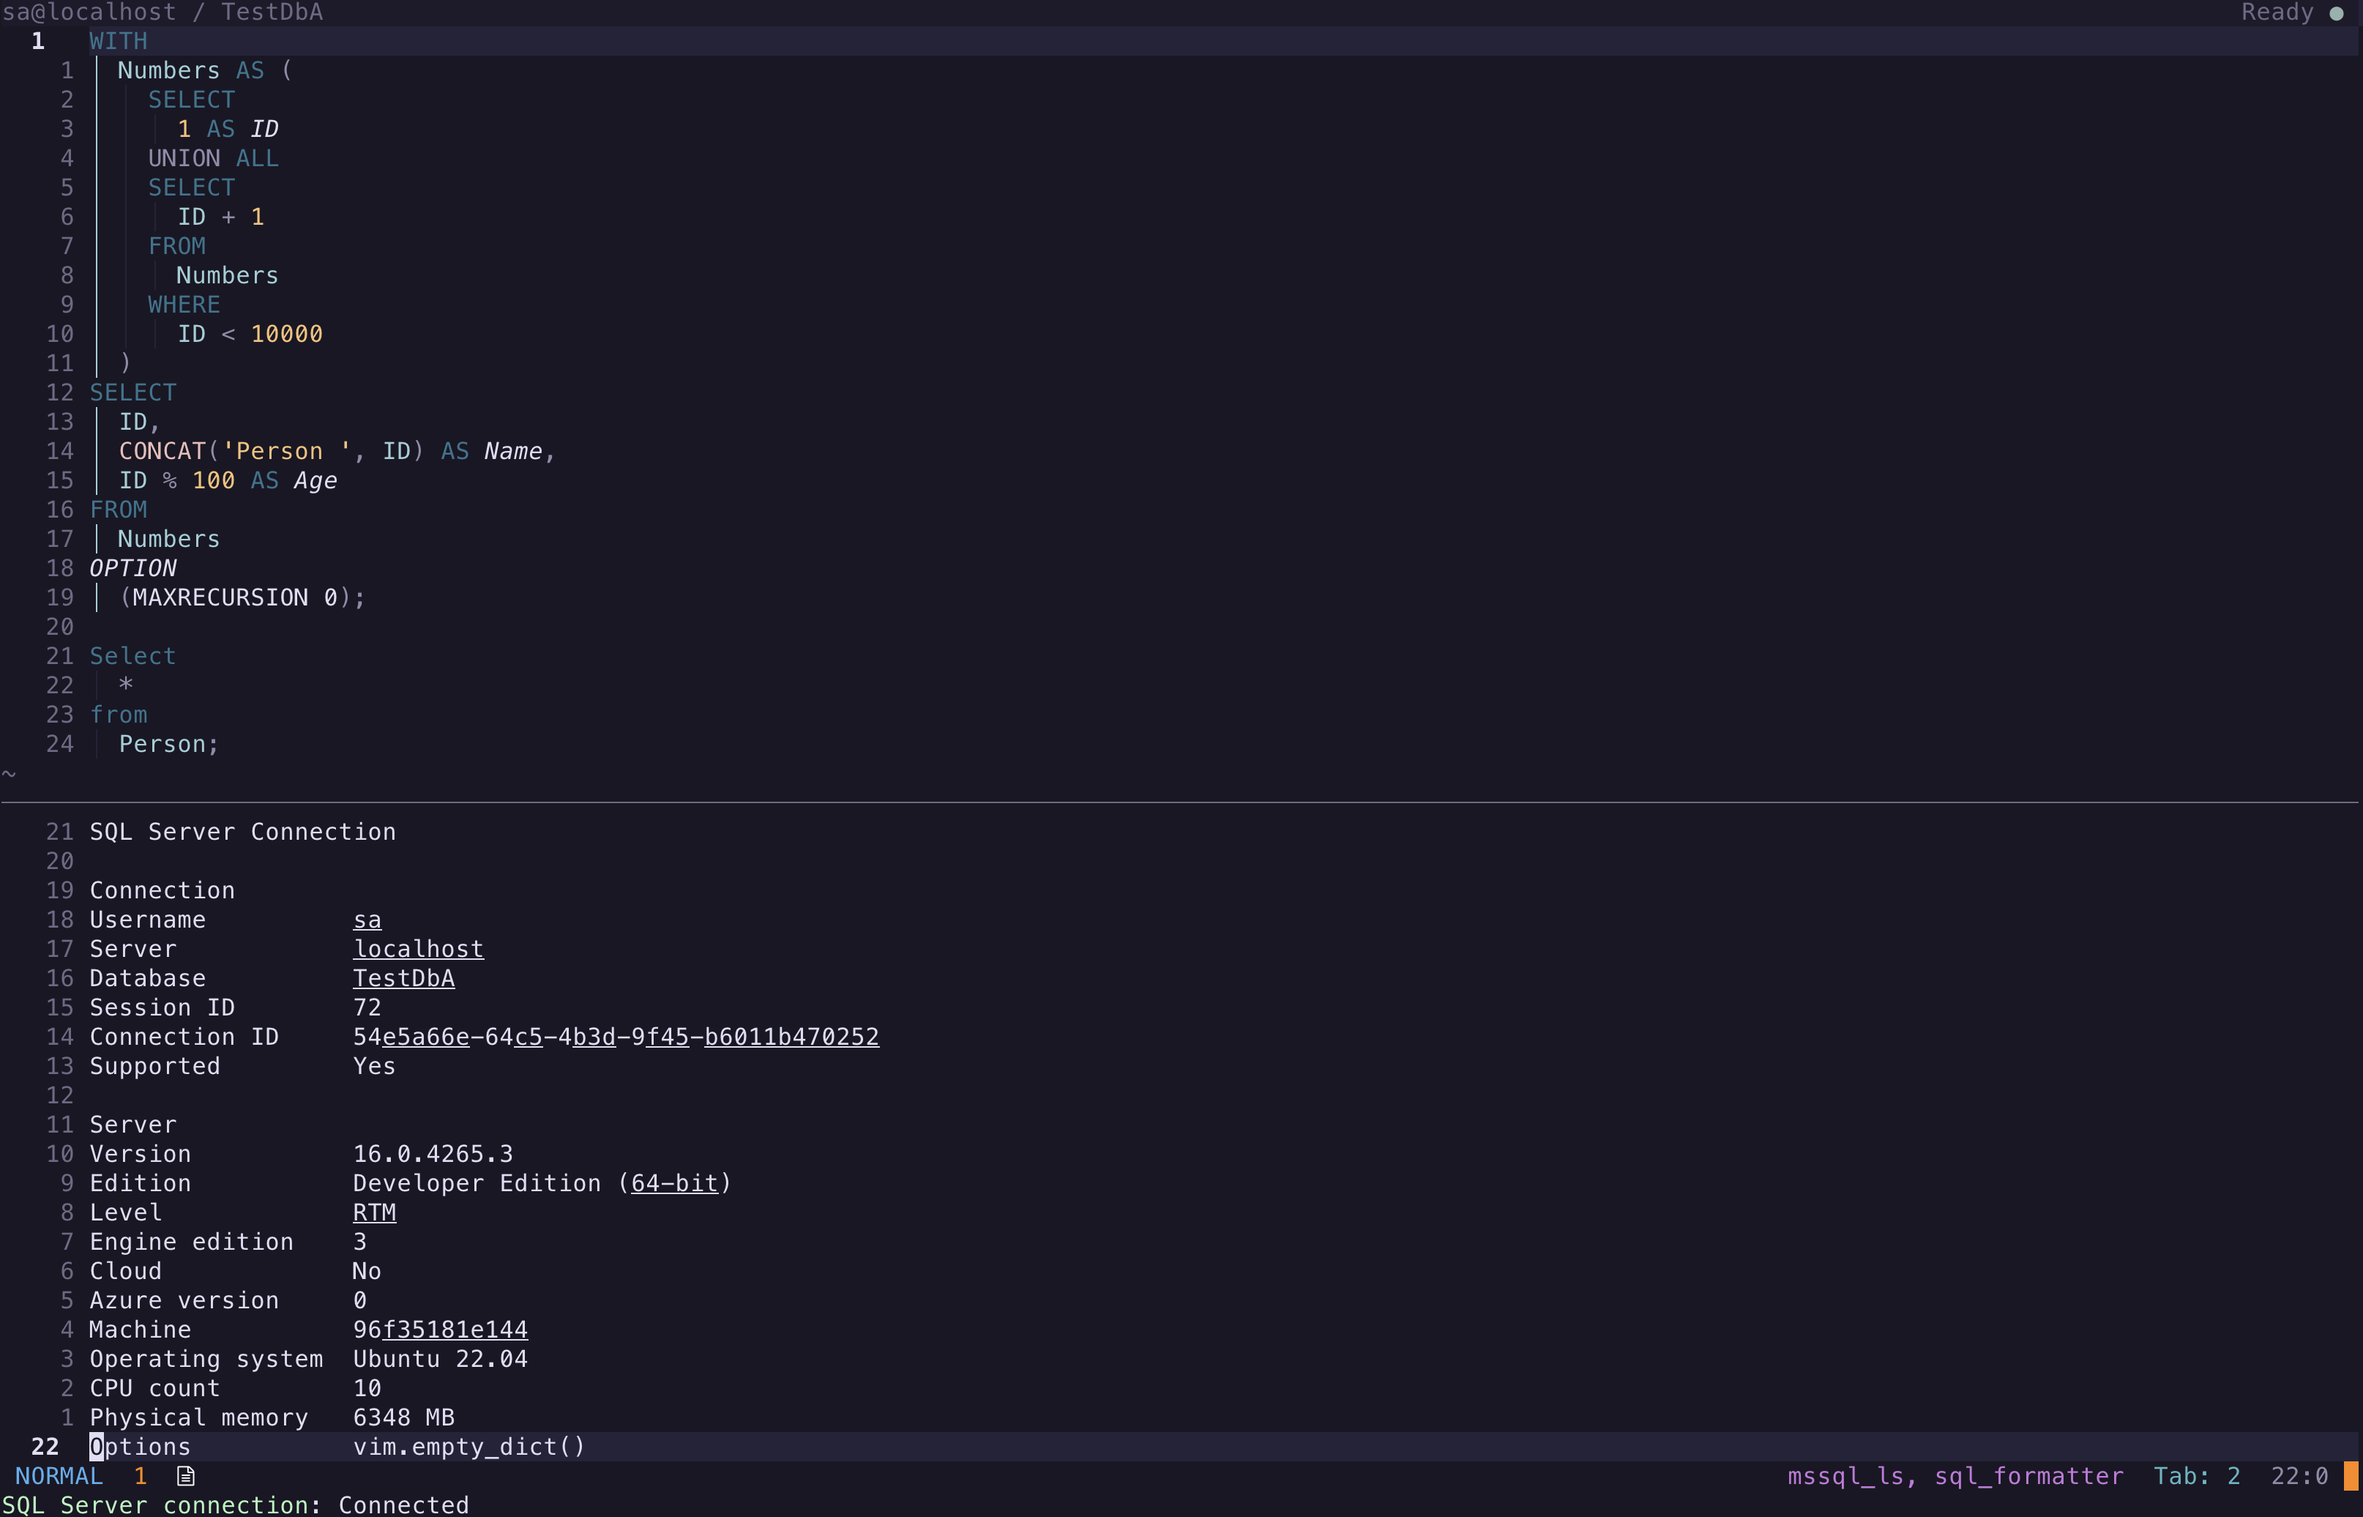
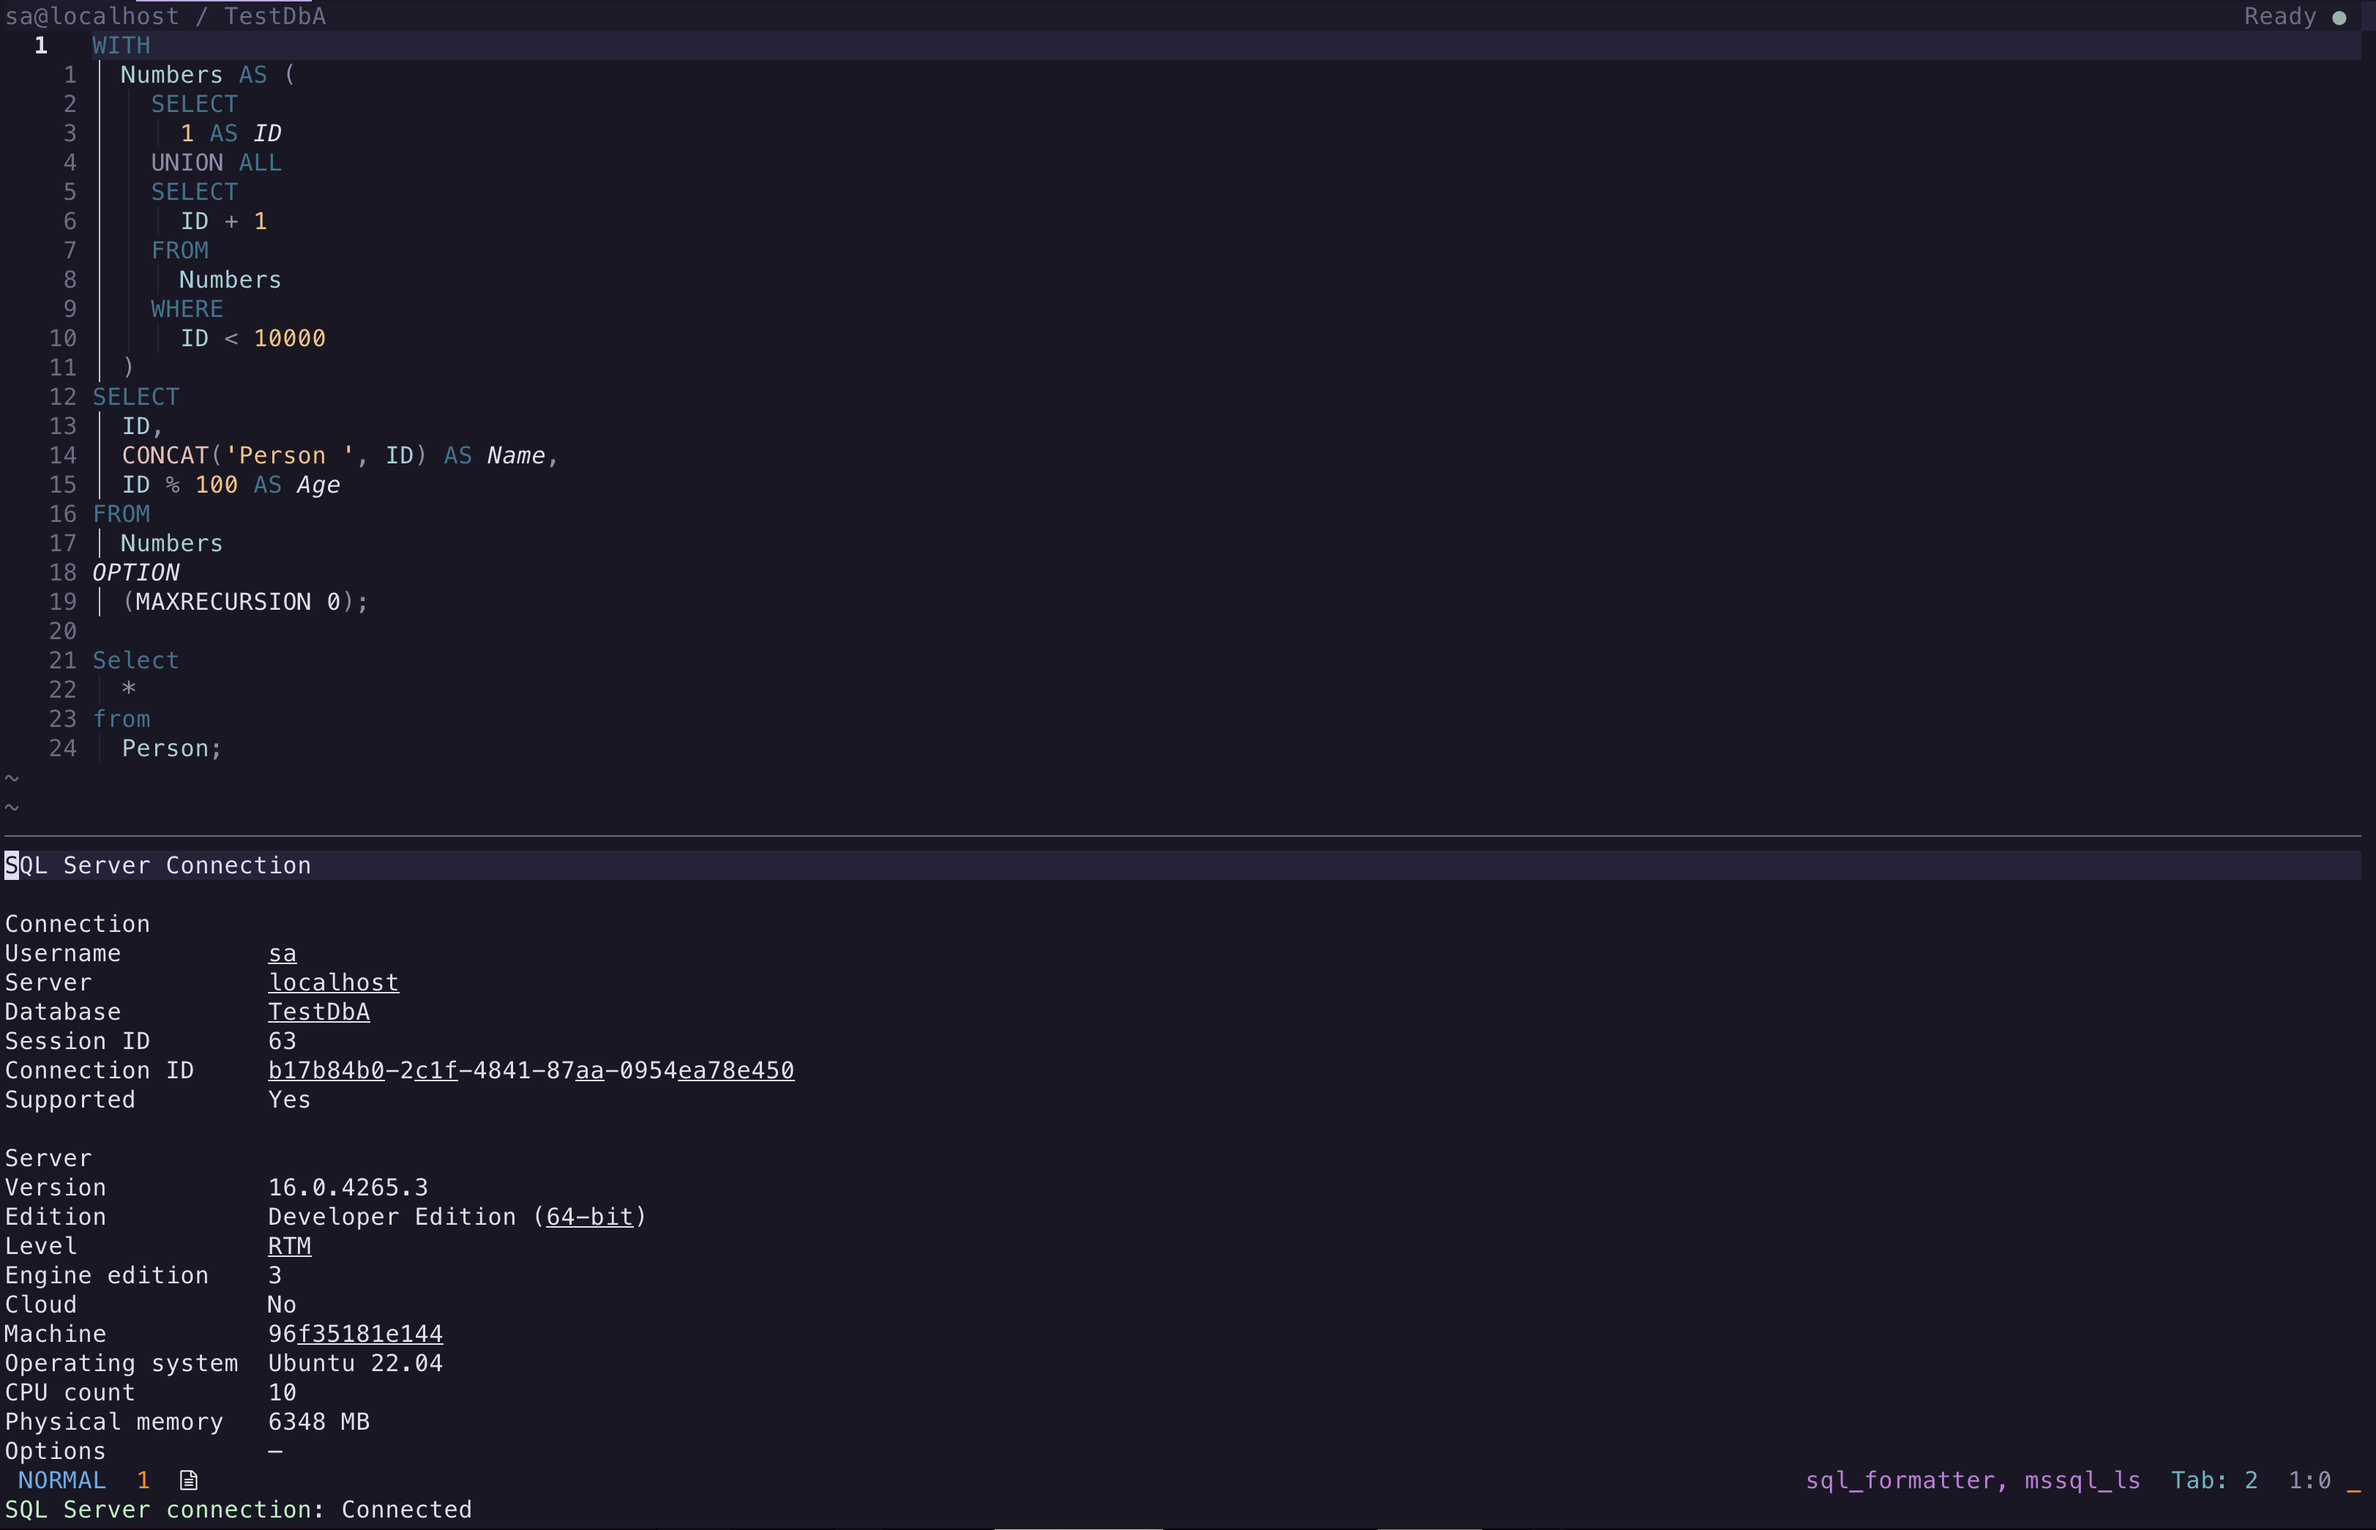
Polish connection information lifecycle
Keep connection information synchronized when databases or connection
states change. Present empty and non-applicable metadata cleanly, remove
distracting window decorations, and expand release acceptance coverage.

diff --git a/docs/releasing.md b/docs/releasing.md
@@ -111,22 +111,36 @@ fresh Neovim data directory:
 1. Start Neovim and confirm the pinned SQL Tools Service installs once without
    replacing a valid installation on the next start.
 2. Create a query buffer and connect with a profile whose password comes from
-   an environment variable. Confirm status reaches `Ready` and no secret is
-   present in `:messages`, the activity panel, or the LSP log.
-3. Verify completion, diagnostics, hover, signature help, definition lookup,
+   an environment variable. Confirm status reaches `Ready`, the winbar shows
+   the expected identity, long server names truncate cleanly in a narrow
+   window, and no secret is present in `:messages`, Activity, or the LSP log.
+3. Open Connection Information with its command and mapping. Verify its server
+   metadata, local mappings, adaptive height, database-switch update,
+   disconnected state, and cleanup when the owning SQL buffer is deleted.
+4. Open Activity and confirm it contains chronological operations, messages,
+   durations, warnings, and errors without duplicating connection metadata.
+5. Verify completion, diagnostics, hover, signature help, definition lookup,
    and formatting in the connected database.
-4. Execute the current statement, a visual selection, and the complete buffer.
+6. Execute the current statement, a visual selection, and the complete buffer.
    Confirm multiple result sets, SQL messages, partial success, zero-row
    results, truncation indicators, and result navigation.
-5. Export a result to CSV, JSON, XML, and XLSX. Verify their saved values and
+7. Exercise slow and failed connection, query, result-loading, object-script,
+   and export operations. Confirm progress remains accurate and no empty or
+   partially initialized buffer is displayed.
+8. Export a result to CSV, JSON, XML, and XLSX. Verify their saved values and
    the XLSX archive integrity.
-6. Start and cancel a long-running query. Confirm the server operation stops
+9. Start and cancel a long-running query. Confirm the server operation stops
    and the workspace returns to `Ready`.
-7. Search tables, views, procedures, scalar functions, and table-valued
-   functions. Open both runnable queries and editable definitions.
-8. Switch databases, disconnect, reconnect, delete a connected buffer, and exit
-   Neovim. Confirm no SQL Tools Service process remains.
-9. Exercise invalid credentials, TLS rejection, an unreachable server, and an
+10. Exercise Find Query and Object Definition with both the default selector
+    and Snacks. Search tables, views, procedures, scalar functions, and
+    table-valued functions, then open runnable queries and editable definitions.
+11. In Object Explorer, expand and collapse nodes, preserve the cursor while
+    navigating, search loaded nodes, run and cancel Search All, use contextual
+    query and definition actions, and verify permission-limited nodes fail
+    without corrupting the tree.
+12. Switch databases, disconnect, reconnect, delete a connected buffer, and
+    exit Neovim. Confirm no SQL Tools Service process remains. Exercise invalid
+    credentials, TLS rejection, an unreachable server, and an
    invalid service executable. Confirm each produces a distinct, secret-safe
    error and leaves Neovim usable.
 

diff --git a/CHANGELOG.md b/CHANGELOG.md
@@ -51,6 +51,9 @@ releases use [Semantic Versioning](https://semver.org/spec/v2.0.0.html).
 
 ### Fixed
 
+- Keep a visible Connection Information view synchronized with database and
+  connection lifecycle changes, hide non-applicable Azure metadata, and render
+  empty server options without exposing Lua implementation details.
 - Provide searchable text for Snacks object-picker items so Find Query and
   Object Definition remain compatible with the Snacks matcher.
 - Prevent slow, cancelled, or failed asynchronous work from opening empty or

diff --git a/docs/usage.md b/docs/usage.md
@@ -197,7 +197,9 @@ SQL Tools Service.
 The view includes the resolved username, server, database, SQL Server session
 ID, SQL Tools Service connection ID, supported-version status, server version,
 edition, engine information, and available host details. It never displays a
-password, access token, or connection string.
+password, access token, or connection string. Non-applicable server fields are
+omitted, empty values render as `—`, and a visible view updates when connection
+state changes.
 
 ## Language features
 
